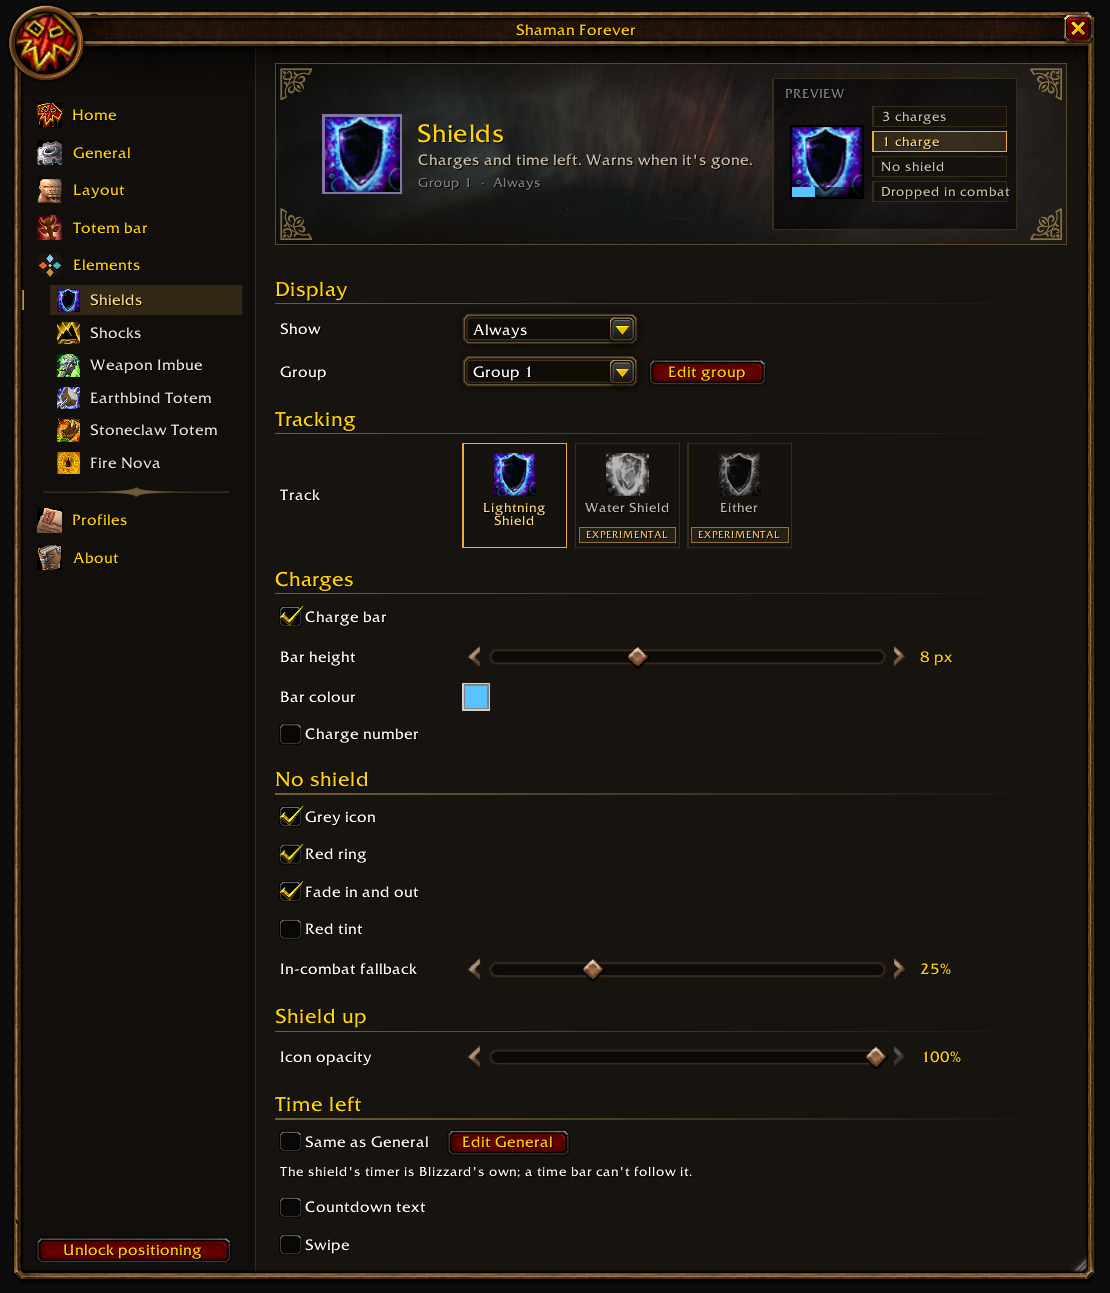
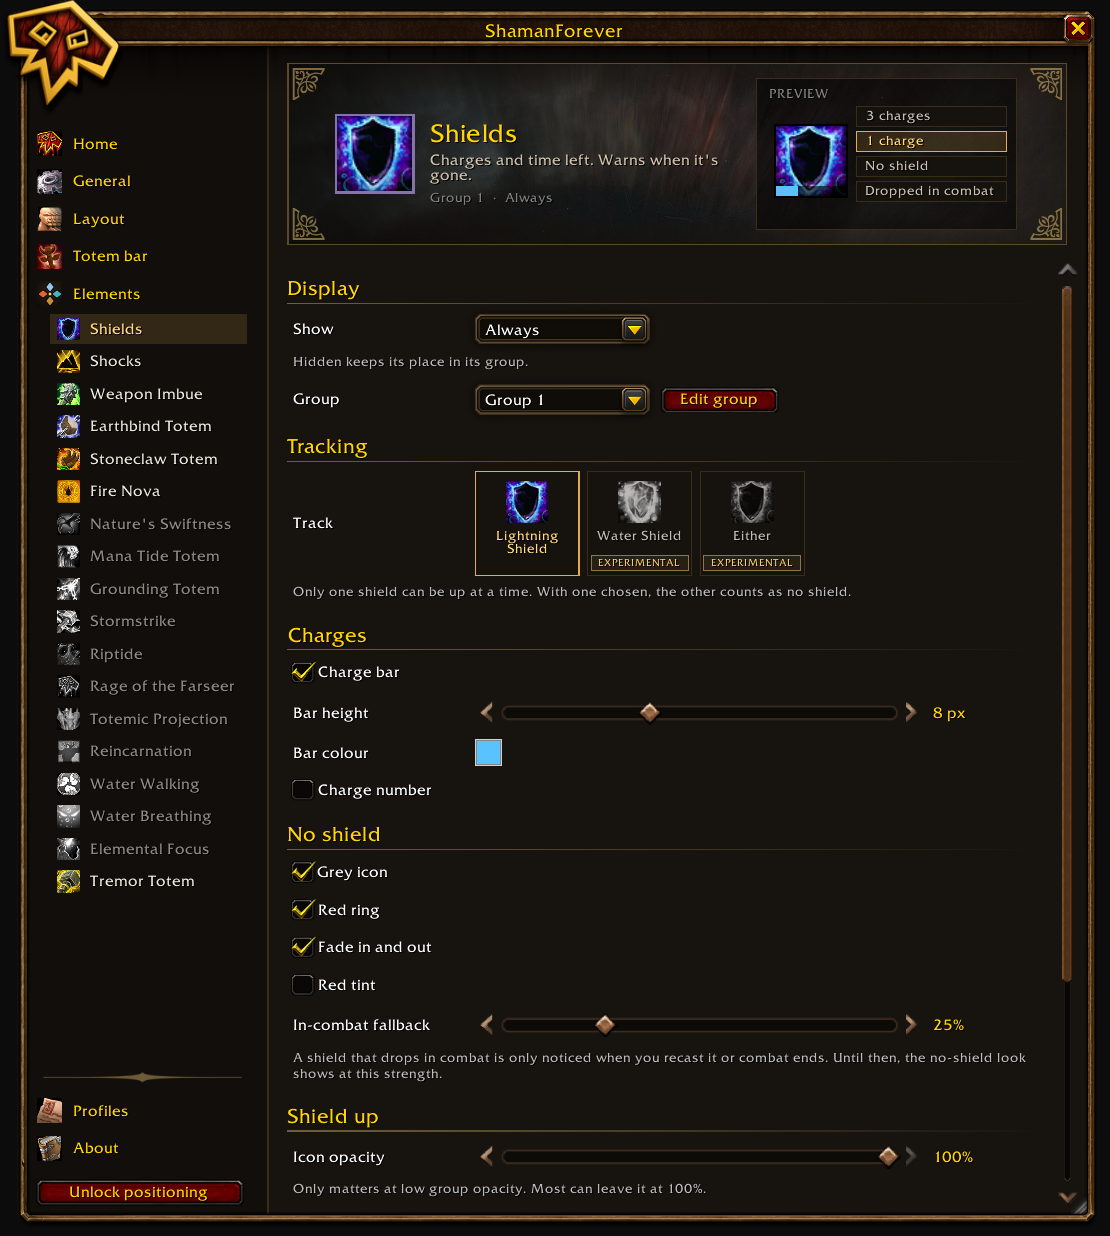
Gallery: 0.8.0's options window and two in-game shots
Twenty-two shots of the options window, taken automatically in game,
including Tremor Totem and a few of the experimental elements, plus the
HUD and positioning in game. The automated shots are labelled
experimental on the gallery page.

diff --git a/docs/gallery/README.md b/docs/gallery/README.md
@@ -1,23 +1,43 @@
 # Gallery
 
-Screenshots of ShamanForever 0.6.2's options window, taken automatically in game on the World of
-Warcraft: Forever beta. These images are not part of the addon download.
+Screenshots of ShamanForever 0.8.0 on the World of Warcraft: Forever beta: the HUD in game, and
+the options window. Features marked experimental haven't been tested in game yet. These images are
+not part of the addon download.
+
+The options window shots are taken automatically in game, which is itself experimental: a shot can
+start at an odd scroll position, and a few pages may be missing or out of order.
+
+## On screen
+
+![Element groups and the totem bar in game, with a totem picker open](hud-elements.png)
+
+![Positioning unlocked: drag groups and the totem bar into place](hud-positioning.png)
+
+## Home
+
+![Home: version, warnings and where to send feedback](home.png)
 
 ## General
 
-![General options](general.png)
+![General options: icon size, border and timers](general.png)
 
-![General: glow and pop styles](general-glow-pop.png)
+![General: pulsing glow and pop styles](general-glow-pop.png)
 
 ## Layout
 
-![Layout options](layout.png)
+![Layout: groups of elements](layout.png)
+
+![Layout: a group's settings](layout-group.png)
 
 ## Totem bar
 
 ![Totem bar options](totem-bar.png)
 
 ![Totem bar: expiring, killed early, glow and pop styles](totem-bar-effects.png)
+
+## Elements
+
+![Every element, its group and when it shows](elements.png)
 
 ## Shields
 
@@ -33,6 +53,40 @@ Warcraft: Forever beta. These images are not part of the addon download.
 
 ## Earthbind Totem
 
-![Earthbind Totem options](earthbind-totem.png)
+![Earthbind Totem, killed early](earthbind-totem.png)
 
 ![Earthbind Totem with its own glow and pop styles](earthbind-totem-styles.png)
+
+## Fire Nova
+
+![Fire Nova with no fire totem down](fire-nova.png)
+
+## Tremor Totem
+
+![Tremor Totem warning](tremor-totem.png)
+
+![Tremor Totem: the watchlist of mobs that fear, charm or sleep](tremor-totem-watchlist.png)
+
+## Mana Tide Totem (experimental)
+
+![Mana Tide Totem running out](mana-tide-totem.png)
+
+## Nature's Swiftness (experimental)
+
+![Nature's Swiftness primed](natures-swiftness.png)
+
+## Reincarnation (experimental)
+
+![Reincarnation with few Ankhs left](reincarnation.png)
+
+## Water Breathing (experimental)
+
+![Water Breathing: under water without it](water-breathing.png)
+
+## Elemental Focus (experimental)
+
+![Elemental Focus: Clearcasting up](elemental-focus.png)
+
+## About
+
+![About: the experimental features, each with a feedback link](about-experimental.png)
